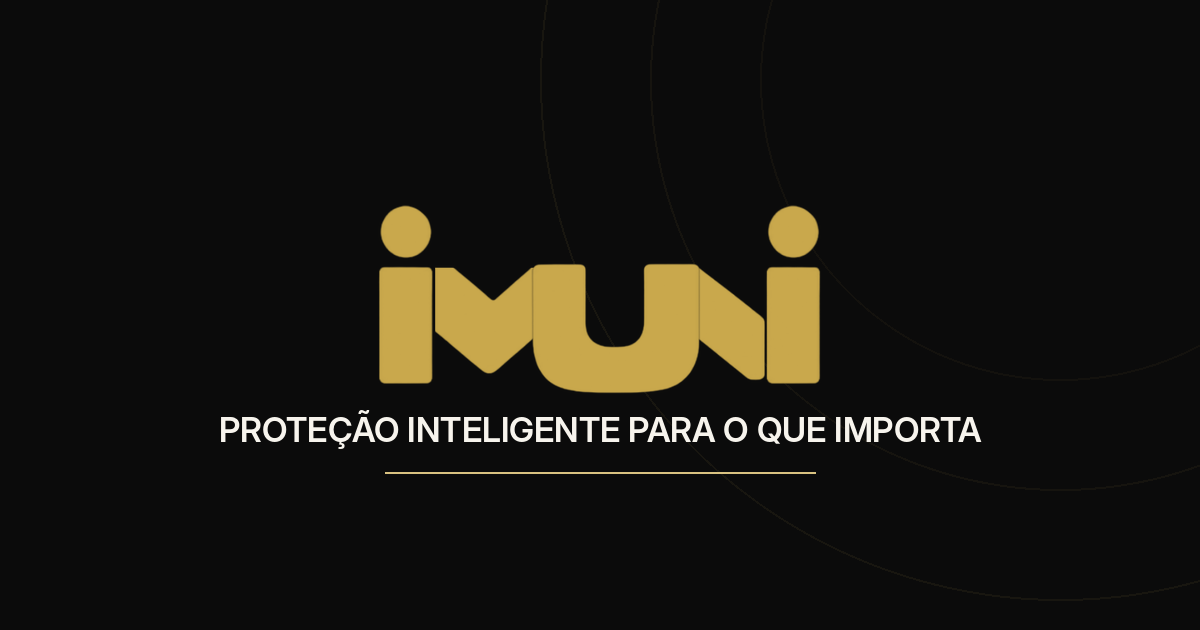
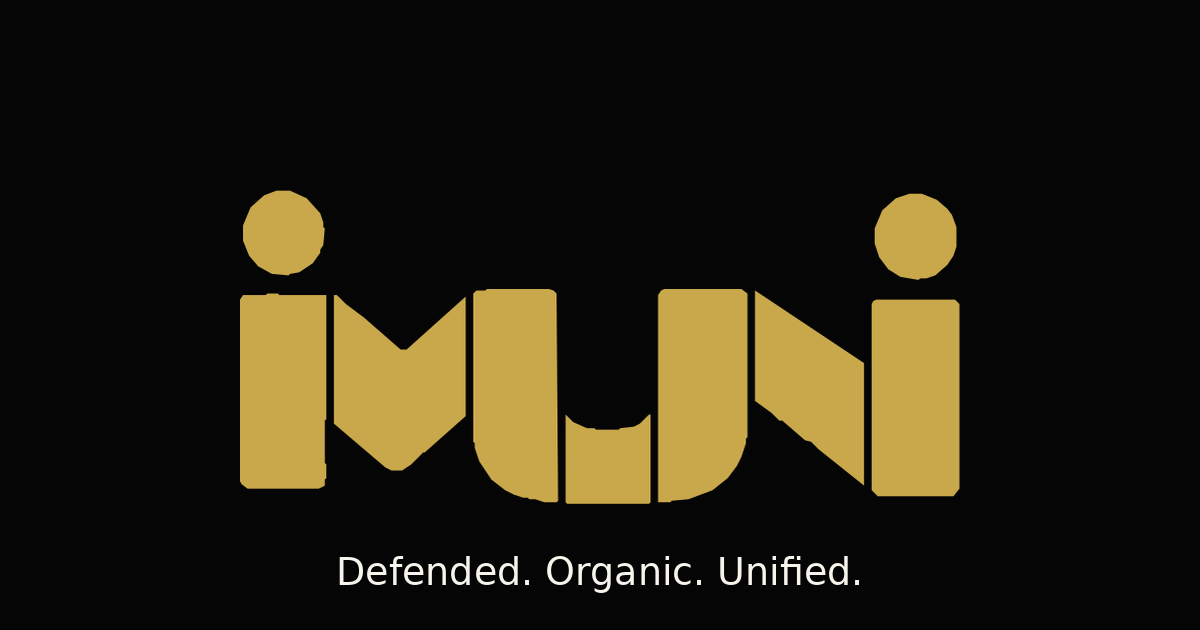
feat(IMUNI): kit visual v2 — chanfros diagonais + variante compacta
Refinamento manual aprovado por Fabio em 2/Mai/2026: pequenos cortes
diagonais entre M/N e os "i" laterais separam as 5 letras (i·M·U·N·i)
dando respiracao e legibilidade — antes "blob central solido", agora
elementos com identidade individual.

Estrutura nova
- public/imuni/svg/principal/ → versao com chanfros (USO GERAL)
- public/imuni/svg/compacta/  → sem chanfros (favicons/micro-uso)
- public/imuni/svg/simbolo/   → 2 anticorpos isolados
  Cada pasta com 4 variantes: currentColor + gold + black + white.

Componentes
- ImuniWordmark: paths v2 com chanfros
- ImuniCompacto (NOVO): variante sem chanfros pra micro-aplicacoes
  onde os cortes virariam ruido pixelado
- ImuniSimbolo: 2 anticorpos no mesmo viewBox 0 0 476 208 pra
  alinhar perfeitamente com o wordmark
- IMUNI_COLORS, IMUNI_TAGLINE, IMUNI_TAGLINE_PT mantidos

Assets atualizados
- favicon.ico (multi-res 16-256 do kit v2)
- apple-touch-icon.png (180x180)
- wordmark-dourado.png + simbolo-dourado.png
- imuni-og.png (1200x630 social preview)

Changed region(s): [[0.185, 0.3016, 0.8325, 0.8143], [0.2775, 0.8746, 0.7092, 0.9349]]

diff --git a/src/components/imuni-brand.tsx b/src/components/imuni-brand.tsx
@@ -7,88 +7,131 @@
 // IMPORTANTE: nao reproduzir manualmente a logo em outro lugar.
 // Sempre importar daqui pra preservar consistencia visual da marca.
 //
-// Criado em 2/Mai/2026 apos aprovacao final da identidade visual
-// (Fabio + Iori + filho de 7 anos como QA de legibilidade).
+// Versao 2 (2/Mai/2026): refinamento aprovado por Fabio com chanfros
+// diagonais entre M/N e os "i" laterais — separa as 5 letras (i·M·U·N·i)
+// dando respiracao e legibilidade. Em tamanhos micro (favicon 16/32px)
+// usar `ImuniCompacto` que omite os chanfros pra nao virar ruido.
 
 import { type CSSProperties } from "react";
 
-const VIEWBOX_WORDMARK = "0 0 689 295";
-const VIEWBOX_SIMBOLO = "0 0 295 100";
+// Todas as 3 variantes compartilham o mesmo viewBox 0 0 476 208.
+const VIEWBOX = "0 0 476 208";
+
+type SvgProps = {
+  className?: string;
+  style?: CSSProperties;
+  title?: string;
+};
 
 /**
- * Wordmark "iMUNi" — logo principal da IMUNI.
+ * Wordmark "iMUNi" — versao PRINCIPAL com chanfros diagonais.
+ *
+ * USO PADRAO: dashboard, site, papelaria, redes sociais, apresentacoes,
+ * cartoes — qualquer coisa exibida acima de ~80px de altura.
  *
  * - currentColor: herda do CSS pai (text-white, text-[#C9A84C], etc)
  * - paths inline: nada de fetch, funciona sem rede
  *
  * @example
  * <ImuniWordmark className="text-[#C9A84C] h-12" />
- * <ImuniWordmark className="text-white h-8" />
  */
-export function ImuniWordmark({
-  className,
-  style,
-  title = "IMUNI",
-}: {
-  className?: string;
-  style?: CSSProperties;
-  title?: string;
-}) {
+export function ImuniWordmark({ className, style, title = "IMUNI" }: SvgProps) {
   return (
     <svg
       xmlns="http://www.w3.org/2000/svg"
-      viewBox={VIEWBOX_WORDMARK}
+      viewBox={VIEWBOX}
       role="img"
       aria-label={title}
       className={className}
       style={style}
+      fill="currentColor"
     >
       <title>{title}</title>
-      <g fill="currentColor" fillRule="nonzero">
-        <path d="M 78 277.27 L 72 277.9 L 11 278.01 L 5.12 276 L 2.25 272 L 1.51 266 L 1.55 105 L 3 100.29 L 6 97.49 L 12 96.6 L 76 96.85 L 80.29 98 L 83.22 102 L 83.92 111 L 83.76 268 L 82.11 274 Z" />
-        <path d="M 45 81.49 L 39 81.31 L 30 79.26 L 25 77.06 L 17 71.29 L 12 65.45 L 7.6 58 L 5.33 52 L 3.85 43 L 4.12 37 L 5.73 29 L 10.66 19 L 15.26 13 L 19 9.47 L 25 5.57 L 32 2.82 L 41 0.62 L 48 1.51 L 58 4.86 L 64.73 9 L 70 13.5 L 75 19.09 L 78 24.14 L 80.39 31 L 82.02 40 L 81.27 49 L 79.19 56 L 76.32 62 L 71 69.12 L 66 73.75 L 60 77.66 L 53 80.36 Z" />
-        <path d="M 600.4 266 L 598 269.47 L 593 271.88 L 581 272.13 L 575 270.28 L 500 210.58 L 498.94 212 L 497.59 230 L 494.48 242 L 490.31 252 L 483 263.72 L 472.8 274 L 463 280.48 L 449 286.22 L 434 289.17 L 402 292.22 L 341 292.46 L 308 290.23 L 290 286.62 L 281 283.46 L 272 279.02 L 263 272.39 L 255.59 264 L 249.92 255 L 246.74 248 L 242.97 235 L 241.54 228 L 240.18 211 L 239 209.96 L 183 258.28 L 176 261.87 L 172 262.25 L 168 261.6 L 162 258.35 L 143 243 L 89 196.88 L 88.36 193 L 88.44 99 L 89 97.86 L 91 97.31 L 114 97.34 L 118 98.26 L 176 147 L 179 147.81 L 182.87 146 L 236.21 99 L 241 97.23 L 246 93.56 L 251 92.49 L 311 92.25 L 318 93.48 L 321 96.18 L 322.3 101 L 322.4 184 L 323.8 195 L 325.66 201 L 329 206.82 L 332.6 211 L 341 216.6 L 353 220.39 L 370 221.06 L 383 220.23 L 391 218.35 L 396 216.08 L 400.58 213 L 405.47 208 L 410.36 199 L 413.18 185 L 413.21 102 L 413.74 98 L 415.54 95 L 419 92.72 L 425 91.9 L 484 91.77 L 493 92.63 L 496 94.21 L 500 98.82 L 593.86 172 L 599 177.25 L 600.52 181 L 600.89 187 Z" />
-        <path d="M 681 277.15 L 674 277.9 L 613 277.97 L 608 276.12 L 604.94 272 L 604.21 266 L 604.24 105 L 605.92 100 L 609 97.38 L 615 96.6 L 679 96.86 L 683 98 L 685.92 102 L 686.7 111 L 686.56 267 L 686.11 271 L 684.82 274 Z" />
-        <path d="M 648 81.47 L 641 81.2 L 633 79.37 L 627.62 77 L 620 71.53 L 614.43 65 L 609.86 57 L 608.08 52 L 606.6 43 L 606.84 37 L 608.46 29 L 612.76 20 L 618 13 L 622 9.26 L 628 5.46 L 635 2.74 L 644 0.62 L 650 1.34 L 660 4.54 L 667 8.67 L 673 13.74 L 678.42 20 L 681.13 25 L 683.36 32 L 684.7 40 L 683.96 49 L 682.3 55 L 679.05 62 L 673.84 69 L 669 73.53 L 663 77.54 L 656 80.29 Z" />
-      </g>
+      {/* Anticorpo esquerdo (ponto sobre o "i" da esquerda) */}
+      <path d="M 24.00 0.00 L 16.00 3.00 L 7.00 11.00 L 2.00 23.00 L 2.00 33.00 L 6.00 43.00 L 12.00 50.00 L 21.00 55.00 L 32.00 56.00 L 33.00 55.00 L 39.00 54.00 L 48.00 48.00 L 53.00 41.00 L 53.00 39.00 L 55.00 36.00 L 56.00 25.00 L 55.00 24.00 L 55.00 21.00 L 53.00 15.00 L 44.00 5.00 L 33.00 0.00 Z" />
+      {/* Anticorpo direito (ponto sobre o "i" da direita) */}
+      <path d="M 442.00 2.00 L 433.00 5.00 L 424.00 13.00 L 419.00 25.00 L 419.00 35.00 L 422.00 44.00 L 428.00 52.00 L 436.00 57.00 L 448.00 59.00 L 449.00 58.00 L 453.00 58.00 L 459.00 56.00 L 467.00 49.00 L 471.00 43.00 L 473.00 37.00 L 473.00 24.00 L 470.00 16.00 L 467.00 12.00 L 460.00 6.00 L 450.00 2.00 Z" />
+      {/* M central */}
+      <path d="M 156.00 66.00 L 154.00 68.00 L 154.00 166.00 L 155.00 167.00 L 155.00 170.00 L 158.00 179.00 L 166.00 191.00 L 175.00 198.00 L 181.00 201.00 L 187.00 203.00 L 190.00 203.00 L 191.00 204.00 L 195.00 204.00 L 201.00 206.00 L 209.00 206.00 L 210.00 205.00 L 209.00 68.00 L 207.00 66.00 L 204.00 65.00 L 163.00 65.00 L 162.00 66.00 Z" />
+      {/* U central */}
+      <path d="M 331.00 65.00 L 280.00 65.00 L 278.00 66.00 L 276.00 69.00 L 276.00 206.00 L 284.00 206.00 L 285.00 205.00 L 296.00 204.00 L 312.00 198.00 L 322.00 190.00 L 328.00 182.00 L 331.00 176.00 L 334.00 167.00 L 334.00 164.00 L 335.00 163.00 L 335.00 68.00 Z" />
+      {/* N central (com chanfro pra "i" direito) */}
+      <path d="M 340.00 66.00 L 340.00 139.00 L 351.00 147.00 L 356.00 152.00 L 358.00 152.00 L 373.00 165.00 L 377.00 166.00 L 382.00 171.00 L 412.00 195.00 L 412.00 114.00 Z" />
+      {/* "i" esquerdo — coluna guardia */}
+      <path d="M 2.00 69.00 L 0.00 72.00 L 0.00 192.00 L 1.00 194.00 L 5.00 197.00 L 52.00 197.00 L 56.00 195.00 L 56.00 191.00 L 57.00 190.00 L 57.00 181.00 L 56.00 180.00 L 56.00 152.00 L 57.00 151.00 L 57.00 69.00 L 26.00 69.00 L 25.00 68.00 L 18.00 68.00 L 17.00 69.00 Z" />
+      {/* Curva da base — escudo invisivel abracando MUN */}
+      <path d="M 62.00 69.00 L 62.00 154.00 L 96.00 183.00 L 100.00 185.00 L 107.00 185.00 L 113.00 181.00 L 121.00 173.00 L 122.00 173.00 L 149.00 149.00 L 149.00 70.00 L 110.00 105.00 L 106.00 105.00 L 82.00 84.00 L 70.00 75.00 L 64.00 69.00 Z" />
+      {/* "i" direito — coluna guardia */}
+      <path d="M 420.00 72.00 L 418.00 73.00 L 417.00 75.00 L 417.00 198.00 L 421.00 202.00 L 471.00 202.00 L 475.00 197.00 L 475.00 75.00 L 472.00 72.00 Z" />
+      {/* Conexao da base entre "i"s laterais e MUN central */}
+      <path d="M 215.00 148.00 L 215.00 206.00 L 216.00 207.00 L 270.00 207.00 L 271.00 206.00 L 271.00 148.00 L 270.00 148.00 L 264.00 154.00 L 260.00 156.00 L 251.00 157.00 L 250.00 158.00 L 235.00 158.00 L 234.00 157.00 L 229.00 157.00 L 220.00 153.00 Z" />
     </svg>
   );
 }
 
 /**
- * Simbolo isolado IMUNI — apenas os 2 pontos circulares.
+ * Wordmark "iMUNi" — versao COMPACTA sem chanfros (formas fundidas).
  *
- * Marca standalone reduzida ao essencial. Use como favicon, app icon,
- * watermark, marca d'agua, indicador de presenca da IMUNI quando o
- * espaco nao comporta o wordmark inteiro.
+ * USO ESPECIFICO: micro-aplicacoes onde os chanfros virariam ruido
+ * pixelado — favicon 16/32px, badges pequenos, indicadores de UI
+ * muito reduzidos.
+ *
+ * Mantem todos os elementos da marca (anticorpos + colunas + MUN
+ * abracado) porem sem os cortes diagonais.
  *
  * @example
- * <ImuniSimbolo className="text-[#C9A84C] h-6" />
+ * <ImuniCompacto className="text-[#C9A84C] h-4" />
  */
-export function ImuniSimbolo({
-  className,
-  style,
-  title = "IMUNI",
-}: {
-  className?: string;
-  style?: CSSProperties;
-  title?: string;
-}) {
+export function ImuniCompacto({ className, style, title = "IMUNI" }: SvgProps) {
   return (
     <svg
       xmlns="http://www.w3.org/2000/svg"
-      viewBox={VIEWBOX_SIMBOLO}
+      viewBox={VIEWBOX}
       role="img"
       aria-label={title}
       className={className}
       style={style}
+      fill="currentColor"
     >
       <title>{title}</title>
-      <g fill="currentColor" fillRule="nonzero">
-        {/* 2 pontos: anticorpos vigiando */}
-        <circle cx="40" cy="50" r="40" />
-        <circle cx="255" cy="50" r="40" />
-      </g>
+      <path d="M 25.00 0.00 L 24.00 2.00 L 19.00 3.00 L 14.00 6.00 L 8.00 12.00 L 3.00 24.00 L 3.00 34.00 L 7.00 44.00 L 13.00 51.00 L 22.00 56.00 L 33.00 57.00 L 34.00 56.00 L 40.00 55.00 L 49.00 49.00 L 54.00 42.00 L 54.00 40.00 L 56.00 37.00 L 57.00 26.00 L 56.00 25.00 L 56.00 22.00 L 54.00 16.00 L 45.00 6.00 L 37.00 2.00 L 35.00 2.00 L 34.00 0.00 Z" />
+      <path d="M 443.00 3.00 L 434.00 6.00 L 425.00 14.00 L 420.00 26.00 L 420.00 36.00 L 423.00 45.00 L 429.00 53.00 L 437.00 58.00 L 449.00 60.00 L 450.00 59.00 L 454.00 59.00 L 460.00 57.00 L 468.00 50.00 L 472.00 44.00 L 474.00 38.00 L 474.00 25.00 L 471.00 17.00 L 468.00 13.00 L 461.00 7.00 L 451.00 3.00 Z" />
+      <path d="M 157.00 67.00 L 155.00 69.00 L 155.00 167.00 L 156.00 168.00 L 156.00 171.00 L 159.00 180.00 L 167.00 192.00 L 176.00 199.00 L 182.00 202.00 L 188.00 204.00 L 191.00 204.00 L 192.00 205.00 L 196.00 205.00 L 202.00 207.00 L 210.00 207.00 L 211.00 206.00 L 210.00 69.00 L 208.00 67.00 L 205.00 66.00 L 164.00 66.00 L 163.00 67.00 Z" />
+      <path d="M 332.00 66.00 L 281.00 66.00 L 279.00 67.00 L 277.00 70.00 L 277.00 207.00 L 285.00 207.00 L 286.00 206.00 L 297.00 205.00 L 313.00 199.00 L 323.00 191.00 L 329.00 183.00 L 332.00 177.00 L 335.00 168.00 L 335.00 165.00 L 336.00 164.00 L 336.00 69.00 Z" />
+      <path d="M 341.00 67.00 L 341.00 140.00 L 352.00 148.00 L 357.00 153.00 L 359.00 153.00 L 374.00 166.00 L 378.00 167.00 L 383.00 172.00 L 405.00 189.00 L 408.00 192.00 L 408.00 205.00 L 424.00 205.00 L 425.00 203.00 L 472.00 203.00 L 475.00 200.00 L 475.00 75.00 L 473.00 73.00 L 425.00 73.00 L 424.00 72.00 L 424.00 67.00 L 408.00 67.00 L 408.00 109.00 L 405.00 110.00 Z" />
+      <path d="M 0.00 73.00 L 0.00 193.00 L 1.00 193.00 L 4.00 197.00 L 6.00 198.00 L 52.00 198.00 L 53.00 199.00 L 67.00 199.00 L 67.00 161.00 L 68.00 160.00 L 97.00 184.00 L 101.00 186.00 L 108.00 186.00 L 114.00 182.00 L 122.00 174.00 L 123.00 174.00 L 150.00 150.00 L 150.00 71.00 L 111.00 106.00 L 107.00 106.00 L 104.00 104.00 L 83.00 85.00 L 71.00 76.00 L 67.00 72.00 L 67.00 70.00 L 27.00 70.00 L 26.00 69.00 L 19.00 69.00 L 18.00 70.00 L 3.00 70.00 L 2.00 72.00 Z" />
+      <path d="M 216.00 149.00 L 216.00 207.00 L 272.00 207.00 L 272.00 149.00 L 271.00 149.00 L 265.00 155.00 L 261.00 157.00 L 252.00 158.00 L 251.00 159.00 L 236.00 159.00 L 235.00 158.00 L 230.00 158.00 L 221.00 154.00 Z" />
+    </svg>
+  );
+}
+
+/**
+ * Simbolo isolado IMUNI — apenas os 2 anticorpos (pontos circulares).
+ *
+ * Marca standalone reduzida ao essencial. Use como favicon micro,
+ * watermark, marca d'agua, indicador de presenca da IMUNI quando o
+ * espaco nao comporta nenhuma forma textual.
+ *
+ * Mantem o mesmo viewBox do wordmark pra alinhar perfeitamente
+ * quando colado lado a lado.
+ *
+ * @example
+ * <ImuniSimbolo className="text-[#C9A84C] h-3" />
+ */
+export function ImuniSimbolo({ className, style, title = "IMUNI" }: SvgProps) {
+  return (
+    <svg
+      xmlns="http://www.w3.org/2000/svg"
+      viewBox={VIEWBOX}
+      role="img"
+      aria-label={title}
+      className={className}
+      style={style}
+      fill="currentColor"
+    >
+      <title>{title}</title>
+      <path d="M 24.00 0.00 L 16.00 3.00 L 7.00 11.00 L 2.00 23.00 L 2.00 33.00 L 6.00 43.00 L 12.00 50.00 L 21.00 55.00 L 32.00 56.00 L 33.00 55.00 L 39.00 54.00 L 48.00 48.00 L 53.00 41.00 L 53.00 39.00 L 55.00 36.00 L 56.00 25.00 L 55.00 24.00 L 55.00 21.00 L 53.00 15.00 L 44.00 5.00 L 33.00 0.00 Z" />
+      <path d="M 442.00 2.00 L 433.00 5.00 L 424.00 13.00 L 419.00 25.00 L 419.00 35.00 L 422.00 44.00 L 428.00 52.00 L 436.00 57.00 L 448.00 59.00 L 449.00 58.00 L 453.00 58.00 L 459.00 56.00 L 467.00 49.00 L 471.00 43.00 L 473.00 37.00 L 473.00 24.00 L 470.00 16.00 L 467.00 12.00 L 460.00 6.00 L 450.00 2.00 Z" />
     </svg>
   );
 }
